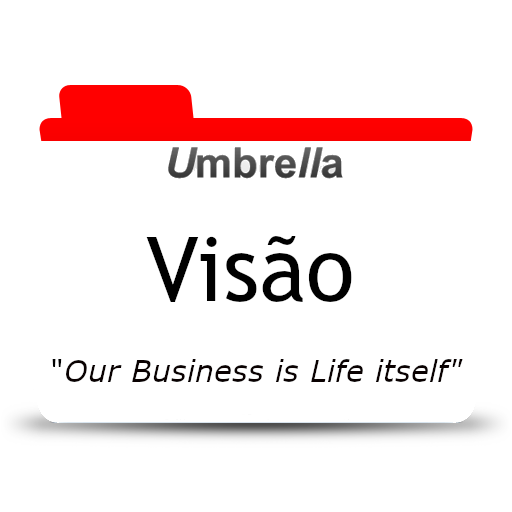
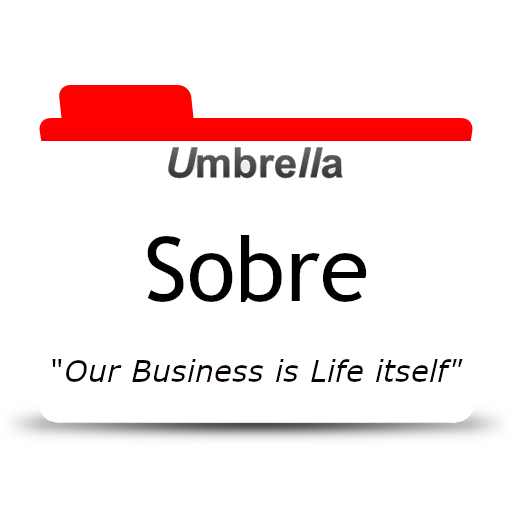
criado as demais páginas, ajustado o css, e rotas

Changed region(s): [[0.2812, 0.4375, 0.7188, 0.5938]]

diff --git a/public/css/main.css b/public/css/main.css
@@ -1,40 +1,74 @@
 * {
     color: #fff;
+
 }
 
 body {
+    position: static;
     background: rgb(54, 46, 46);
     background-image: url('/img/background_Umb.jpg');
     background-repeat: no-repeat;
     background-size: cover;
+    /* width: 100vw; */
+
+
 
 }
 
 header {
-    /* background: rgb(80, 3, 3);
-    background: -moz-linear-gradient(180deg, rgba(80, 3, 3, 1) 0%, rgba(73, 17, 6, 1) 35%, rgba(102, 20, 20, 1) 100%);
-    background: -webkit-linear-gradient(180deg, rgba(80, 3, 3, 1) 0%, rgba(73, 17, 6, 1) 35%, rgba(102, 20, 20, 1) 100%);
-    background: linear-gradient(180deg, rgba(80, 3, 3, 1) 0%, rgba(73, 17, 6, 1) 35%, rgba(102, 20, 20, 1) 100%);
-    filter: progid:DXImageTransform.Microsoft.gradient(startColorstr="#500303", endColorstr="#661414", GradientType=1); */
+    width: 100vw;
+    min-width: 368px;
+
 }
 
 header img {
-    position: relative;
-    left: 70vh;
-
+    display: flex;
+    width: 100vh;
+    margin-top: 10px;
+    margin-left: 25vw;
 }
 
-.bg-icon .img-roll {
-    display: flex;
-    margin-top: -800px;
-    margin-left: 50px;
+.bg-icon {
+    width: 118px;
+    height: 118px;
+    margin-top: -77px;
+    margin-left: 108px;
+}
+
+.img-roll {
+    width: 128px;
+    margin: 0;
     animation: roll 8s infinite linear;
 }
 
-.bg-icon .zomb {
-    position: absolute;
-    top: 15px;
-    left: 50px;
+
+.div-par {
+    display: inline;
+
+
+}
+
+.div-par .article-home {
+    width: 64vw;
+    margin-left: 395px;
+
+}
+
+
+.div-par .article-home p {
+    text-align: left;
+    word-wrap: break-word;
+    font-size: 23px;
+}
+
+.zomb {
+
+    margin-top: 37vh;
+    margin-left: 85vw;
+
+}
+
+.zomb .zomb-img {
     transform: rotateY(180deg);
     width: 110px;
 }
@@ -55,10 +89,15 @@ header img {
 
 
 .nav-bar {
-    display: block;
+    display: flex;
+    width: 200px;
+    margin-top: 20px;
+    margin-left: 16px;
 }
 
 .nav-bar ul {
+    display: flex;
+    flex-wrap: wrap;
     list-style: none;
 }
 
@@ -76,19 +115,29 @@ header img {
     color: #fff;
 }
 
-h1 {
+.container {
+    display: flex;
     color: #fff;
+    width: 465px;
+    margin-top: -556px;
+    margin-left: 391px;
+    
+
 }
 
 .contact {
     display: flex;
-    margin-top: -670px;
+    width: 670px;
+    margin-top: 3px;
     margin-left: 500px;
+
 }
 
 .contact #form-contact {
+    width: 424px;
     margin-top: 14vh;
     margin-left: -68vh;
+
 }
 
 
@@ -120,4 +169,15 @@ h1 {
     margin-left: 132px;
     width: 200px;
     padding: 5px;
+}
+
+
+
+#btn-leave {
+    color: black;
+    text-decoration: none;
+    background: #9b8a82;
+    box-shadow: none;
+    border-radius: 0px;
+    margin-left: 50%;
 }

diff --git a/index.js b/index.js
@@ -8,10 +8,8 @@ app.set('view engine', 'EJS')
 
 // MVC - MODEL - VIEW - CONTROLLER
 
-
 // definindo os arquivos estáticos - USADO SOMENTE SE NÃO FOR USADO UM TEMPLATE ENGINE
 // app.use(express.static(path.join(__dirname, 'views')))
-
 
 // definindo os arquivos públicos
 app.use(express.static(path.join(__dirname, 'public')))
@@ -21,13 +19,22 @@ app.use(express.static(path.join(__dirname, 'public')))
 app.get('/',(req, res)=>{
     res.render('index')
 })
+
 app.get('/contact',(req, res)=>{
     res.render('contact')
 })
 
+app.get('/products', (req, res)=>{
+    res.render('products')
+})
+
+app.get('/about', (req, res)=>{
+    res.render('about')
+})
+
 //  404 NOT FOUND
 app.use((req, res)=>{
-    res.send('Página não encontrada')
+    res.render('404')
 })
 
 

diff --git a/public/js/main.js b/public/js/main.js
@@ -1,11 +1,12 @@
-// const sendCad = document.querySelector('#btn-send')
+const sendCad = document.querySelector('#btn-send')
 
 
 
-// // PRevinir o envio Automático dos dados do formulário de cadastro.
-// const formSend = ()=>{
-//     sendCad.addEventListener('click',(e)=>{
-//         e.preventDefault()
-//     })
-// }
-// formSend()
+// PRevinir o envio Automático dos dados do formulário de cadastro.
+const formSend = ()=>{
+    sendCad.addEventListener('click',(e)=>{
+        e.preventDefault()
+        
+    })
+}
+formSend()
